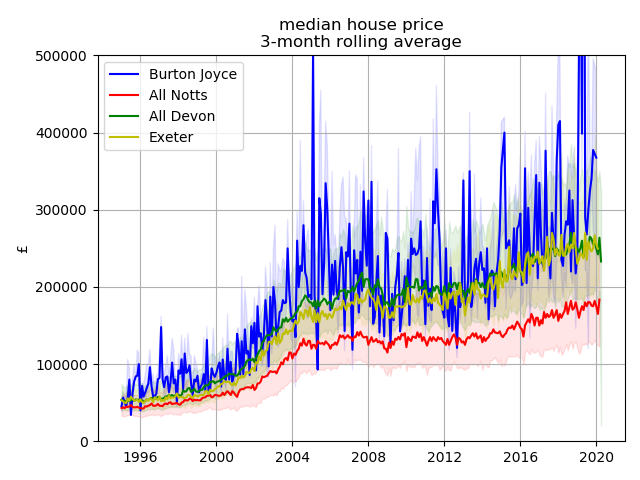
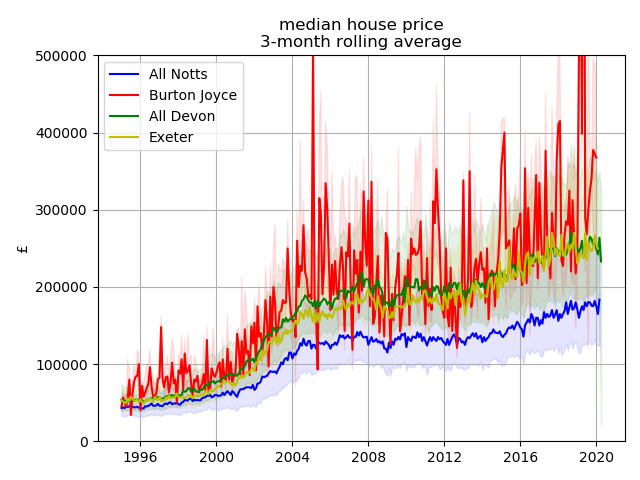
code refactor

Changed region(s): [[0.1875, 0.125, 0.9375, 0.875], [0.2188, 0.125, 0.375, 0.2188]]

diff --git a/house_price_analysis.py b/house_price_analysis.py
@@ -2,8 +2,9 @@ import numpy as np
 import pandas as pd
 import matplotlib.pylab as plt
 
-
-
+'''
+util functions for house price analysis
+'''
 def get_data(file):
     df = pd.read_csv(file)
     cols = ['price_paid',
@@ -40,41 +41,36 @@ def plot_one_group(fig, ax1, dfin,color='k', label=None):
     return fig, ax1
 
 
-
+'''
+script to ingest, group data and generate plots
+'''
 if __name__ == '__main__':
     # data ingestion Data from hm land registry
-    # https://landregistry.data.gov.uk/\
+    # https://landregistry.data.gov.uk/
     df = get_data('./data/all_notts.csv')
     # isolate burton joyce
     dfbj = df[df['locality'] == 'BURTON JOYCE']
-
     #load devon
     dfd = get_data('./data/all_devon.csv')
     # isolate exeter
     dfdex = dfd[dfd['district']=='EXETER']
-
     #load london
     #dfl = get_data('./data/all_london.csv')
+
+    #group inputs together and indicate plotting colour
+    data_dict = {'All Notts':[df,'b'],
+                 'Burton Joyce':[dfbj,'r'],
+                 'All Devon':[dfd,'g'],
+                 'Exeter':[dfdex,'y']}
 
     #plot the aggregated data for burton joyce and compare to national average
     plt.close()
     fig = plt.figure()
     ax1 = fig.add_subplot(111)
-    agg_bj = group_houseprice(dfbj,datecol='deed_date',val='price_paid',cadence='M')
-    fig, ax1 = plot_one_group(fig, ax1, agg_bj, color='b',label='Burton Joyce')
-
-    agg_all = group_houseprice(df,datecol='deed_date',val='price_paid',cadence='M')
-    fig, ax1 = plot_one_group(fig, ax1, agg_all, color='r',label='All Notts')
-
-    agg_all = group_houseprice(dfd, datecol='deed_date', val='price_paid', cadence='M')
-    fig, ax1 = plot_one_group(fig, ax1, agg_all, color='g', label='All Devon')
-
-    agg_all = group_houseprice(dfdex, datecol='deed_date', val='price_paid', cadence='M')
-    fig, ax1 = plot_one_group(fig, ax1, agg_all, color='y', label='Exeter')
-
-    #agg_all = group_houseprice(dfl, datecol='deed_date', val='price_paid', cadence='M')
-    #fig, ax1 = plot_one_group(fig, ax1, agg_all, color='y', label='London')
-
+    for label, data_info in data_dict.items():
+        data, color = data_info
+        agg = group_houseprice(data,datecol='deed_date',val='price_paid',cadence='M')
+        fig, ax1 = plot_one_group(fig, ax1, agg, color=color,label=label)
     ax1.set_ylim([0,500000])
     ax1.set_ylabel('£')
     ax1.set_title('median house price\n3-month rolling average')
